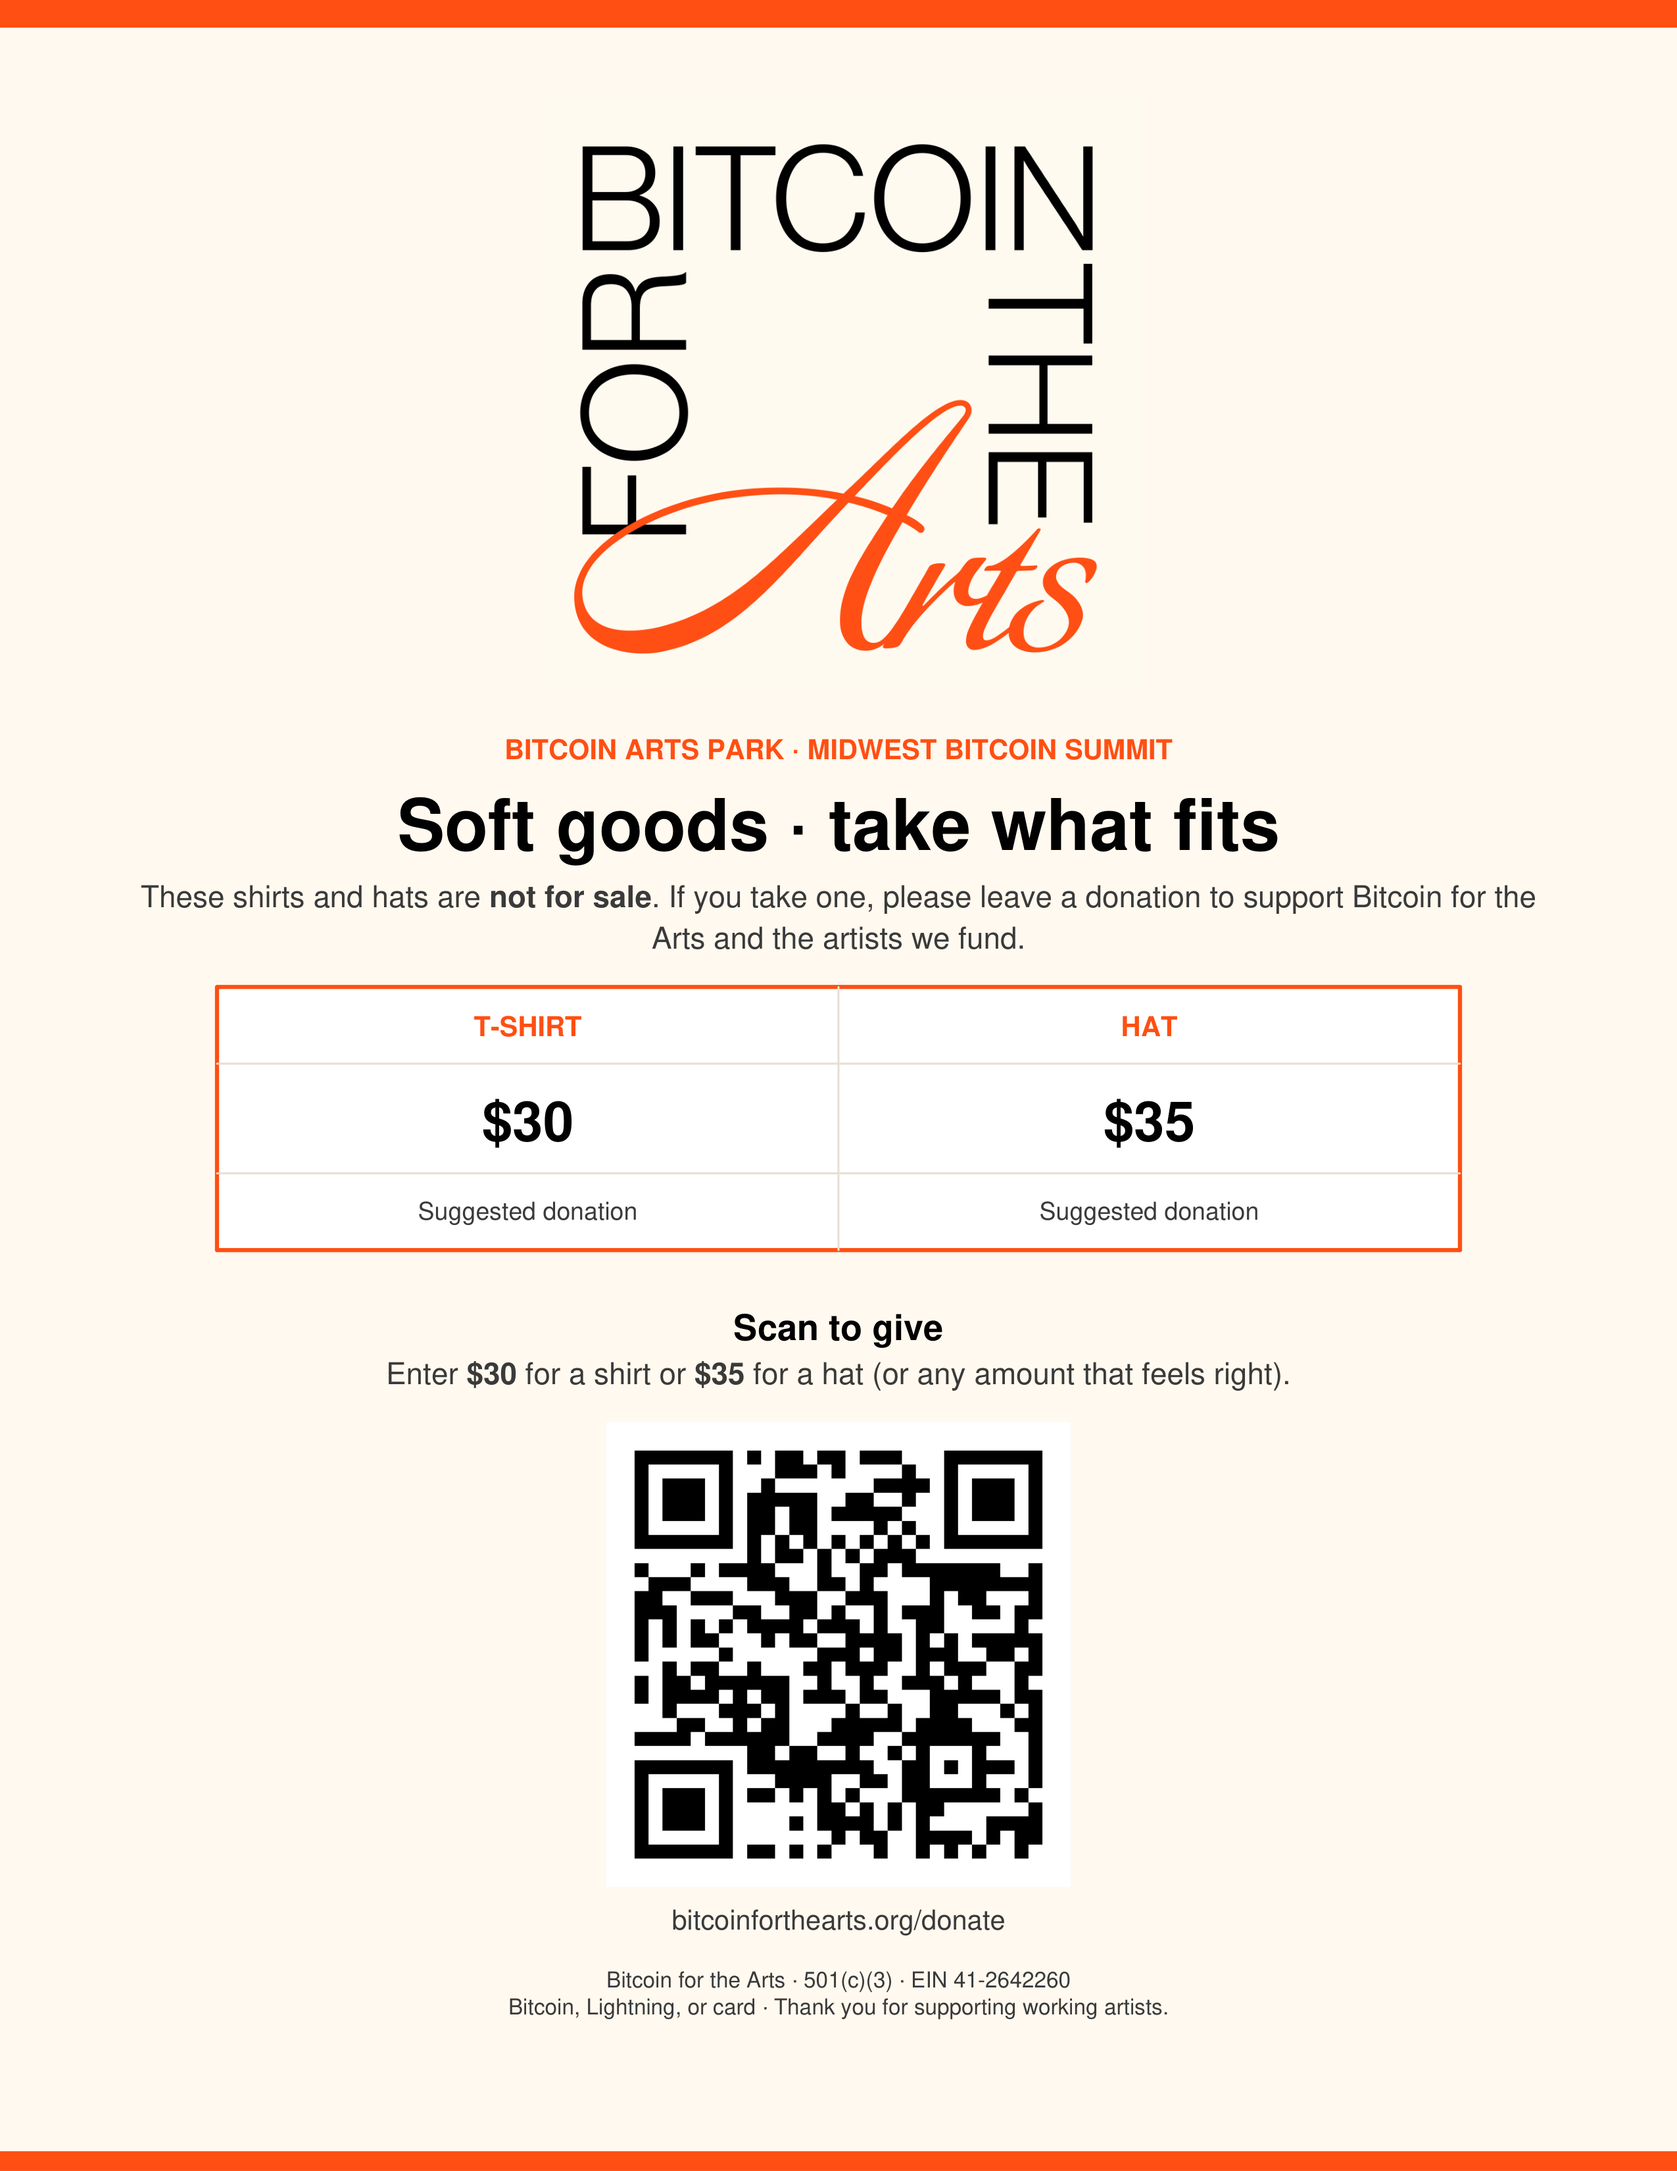
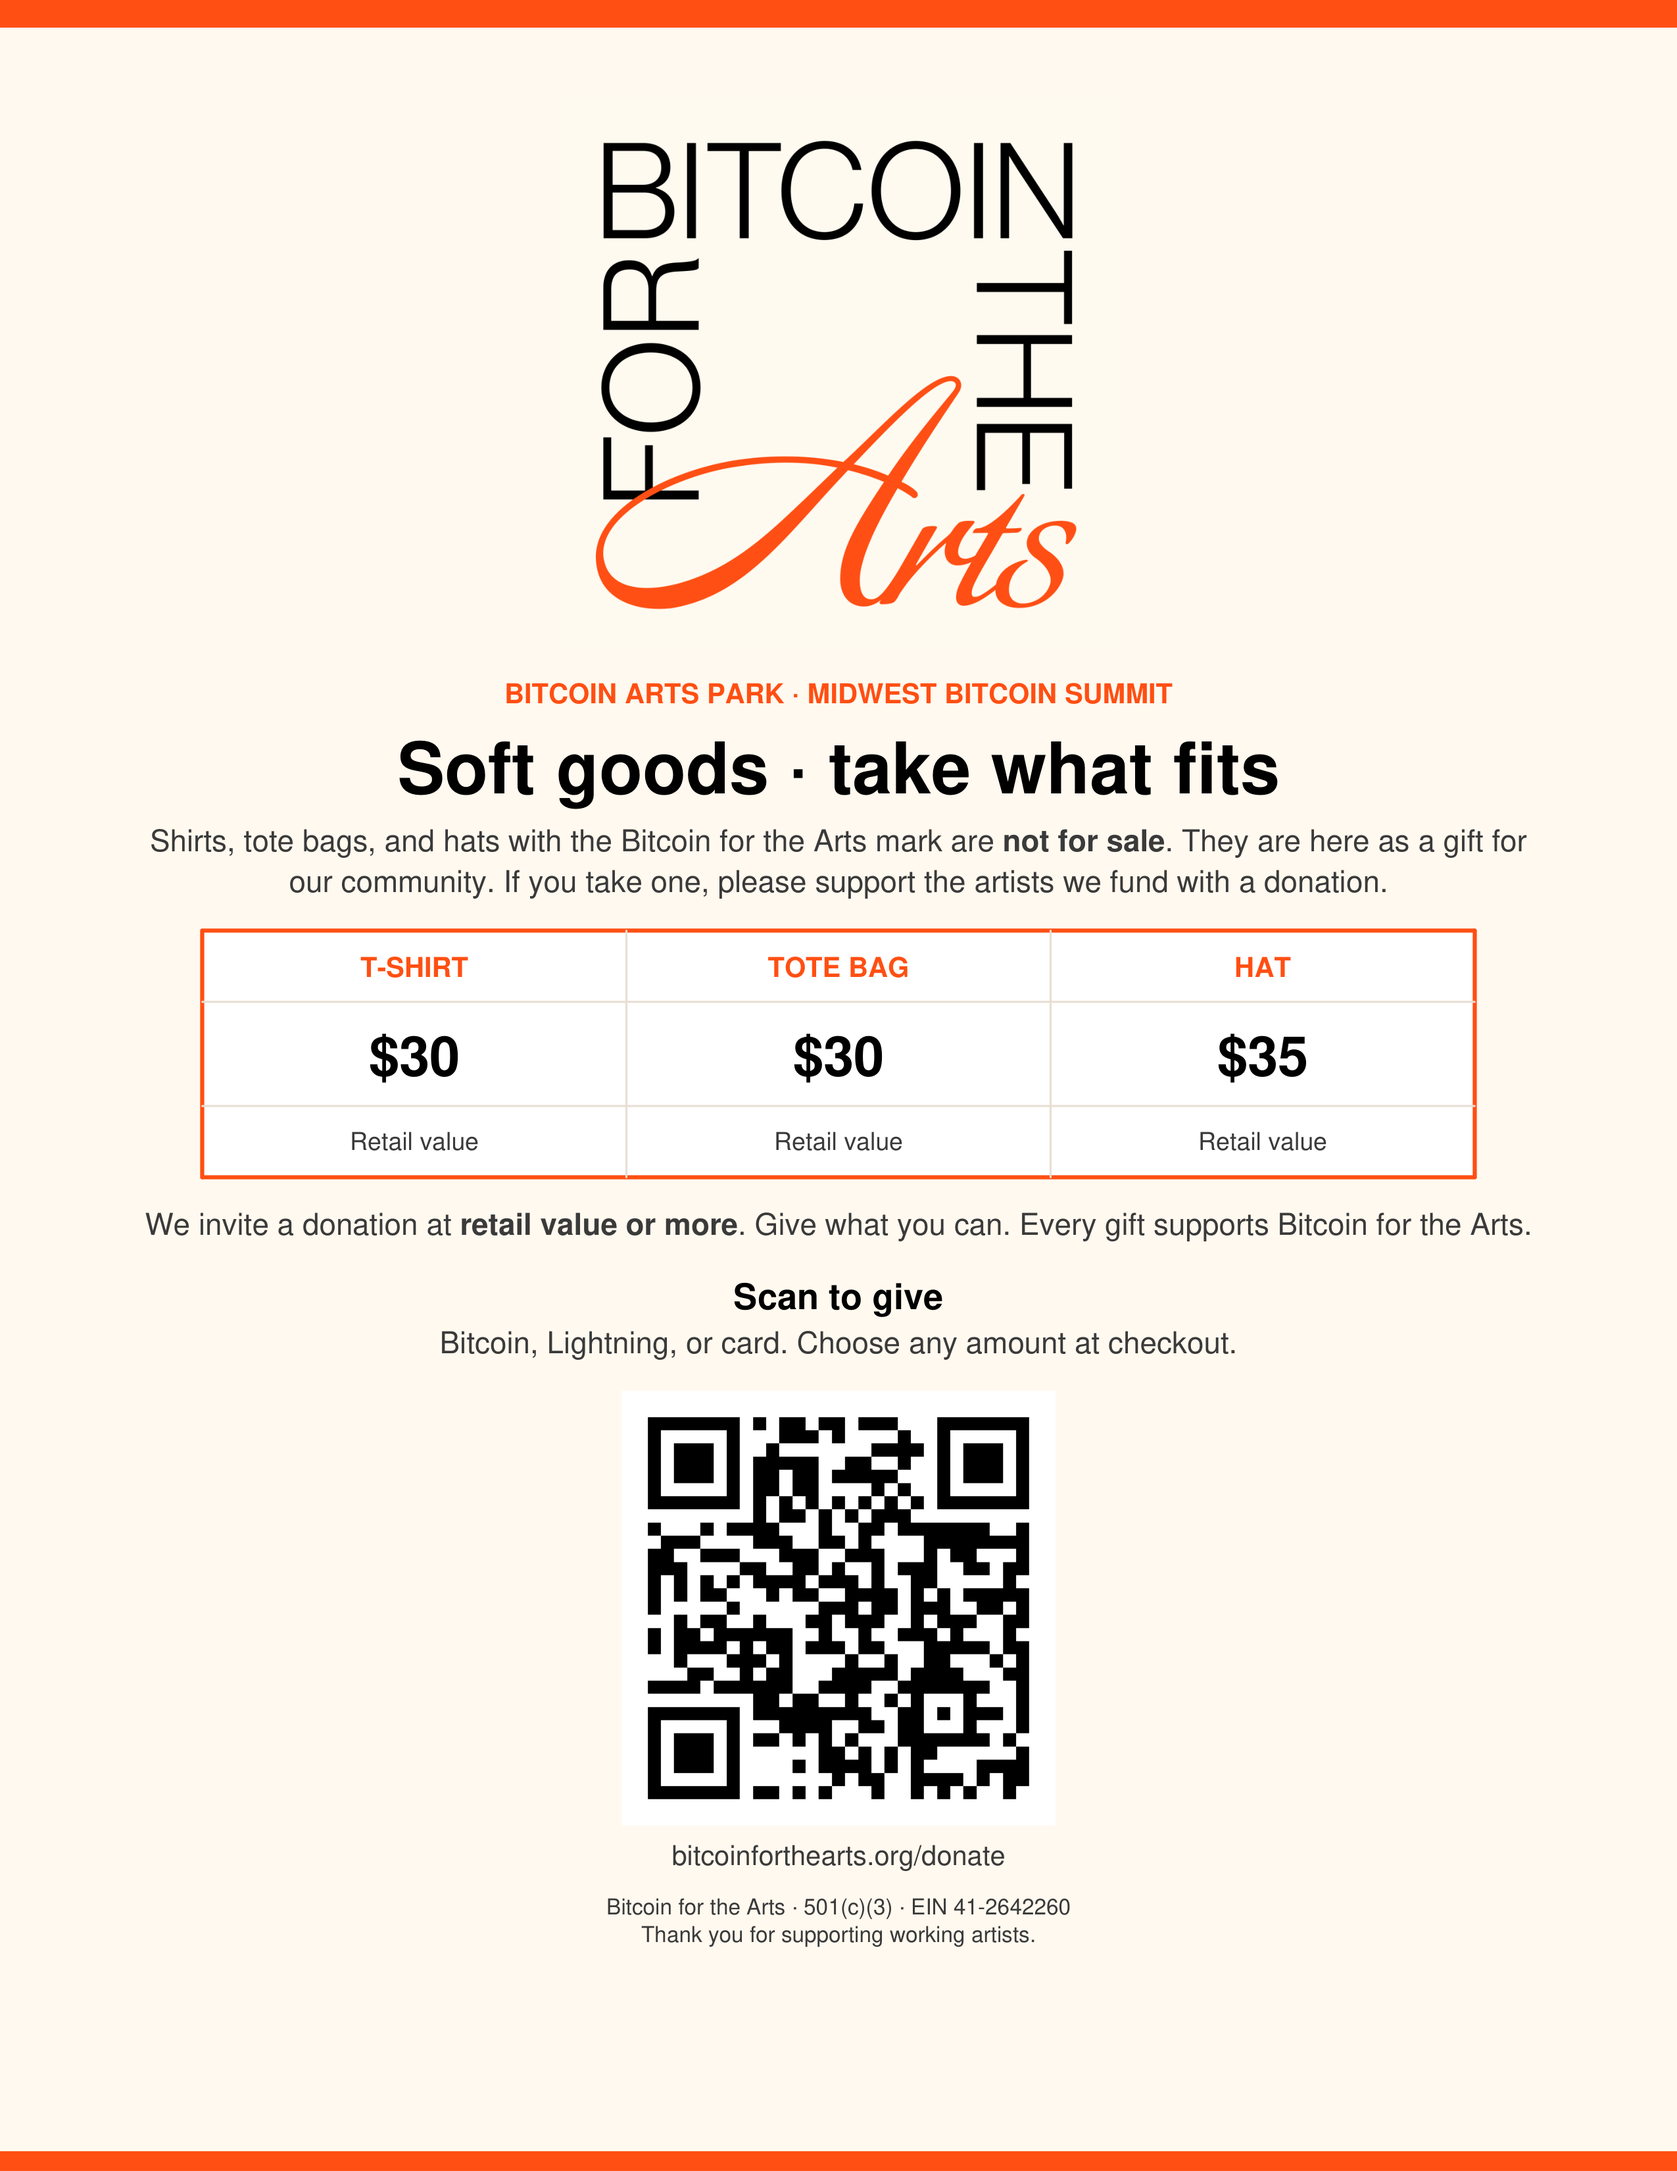
Update merch flyer with tote bags and softer donation copy.
Show retail values for tee, tote, and hat; invite retail-or-more giving without prescribing a checkout amount.

Changed region(s): [[0.0929, 0.0624, 0.8984, 0.9364]]

diff --git a/docs/midwest-2026/merch-flyer/generate-merch-donation-flyer.py b/docs/midwest-2026/merch-flyer/generate-merch-donation-flyer.py
@@ -2,7 +2,8 @@
 """Generate a print-ready wall flyer for Midwest Bitcoin Arts Park soft goods.
 
 Letter size (8.5 × 11 in portrait). Vector PDF + 300 dpi PNG.
-T-shirts and hats are not for sale — suggested donations with QR to give.
+T-shirts, tote bags, and hats are not for sale — retail values shown with
+donation-by-heart guidance and a QR to give.
 """
 
 from __future__ import annotations
@@ -168,21 +169,21 @@ def build_flyer(pdf_path: Path, qr_path: Path) -> None:
         canvas.restoreState()
 
     logo = LOGO if LOGO.exists() else BUG
-    logo_w = 3.1 * inch
+    logo_w = 2.85 * inch
     with PILImage.open(logo) as im:
         aspect = im.size[1] / im.size[0]
     logo_h = logo_w * aspect
 
     story = []
     story.append(Image(str(logo), width=logo_w, height=logo_h, hAlign="CENTER"))
-    story.append(Spacer(1, 0.18 * inch))
+    story.append(Spacer(1, 0.14 * inch))
     story.append(Paragraph("BITCOIN ARTS PARK · MIDWEST BITCOIN SUMMIT", styles["eyebrow"]))
     story.append(Paragraph("Soft goods · take what fits", styles["title"]))
     story.append(
         Paragraph(
-            "These shirts and hats are <b>not for sale</b>. "
-            "If you take one, please leave a donation to support Bitcoin for the Arts "
-            "and the artists we fund.",
+            "Shirts, tote bags, and hats with the Bitcoin for the Arts mark are "
+            "<b>not for sale</b>. They are here as a gift for our community. "
+            "If you take one, please support the artists we fund with a donation.",
             styles["dek"],
         )
     )
@@ -191,18 +192,21 @@ def build_flyer(pdf_path: Path, qr_path: Path) -> None:
         [
             [
                 Paragraph("T-SHIRT", styles["price_label"]),
+                Paragraph("TOTE BAG", styles["price_label"]),
                 Paragraph("HAT", styles["price_label"]),
             ],
             [
                 Paragraph("$30", styles["price_item"]),
+                Paragraph("$30", styles["price_item"]),
                 Paragraph("$35", styles["price_item"]),
             ],
             [
-                Paragraph("Suggested donation", styles["price_sub"]),
-                Paragraph("Suggested donation", styles["price_sub"]),
+                Paragraph("Retail value", styles["price_sub"]),
+                Paragraph("Retail value", styles["price_sub"]),
+                Paragraph("Retail value", styles["price_sub"]),
             ],
         ],
-        colWidths=[3.15 * inch, 3.15 * inch],
+        colWidths=[2.15 * inch, 2.15 * inch, 2.15 * inch],
     )
     price_table.setStyle(
         TableStyle(
@@ -210,34 +214,40 @@ def build_flyer(pdf_path: Path, qr_path: Path) -> None:
                 ("BACKGROUND", (0, 0), (-1, -1), colors.white),
                 ("BOX", (0, 0), (-1, -1), 1.5, ORANGE),
                 ("INNERGRID", (0, 0), (-1, -1), 0.75, colors.HexColor("#E8E0D4")),
-                ("TOPPADDING", (0, 0), (-1, -1), 8),
-                ("BOTTOMPADDING", (0, 0), (-1, -1), 8),
-                ("LEFTPADDING", (0, 0), (-1, -1), 8),
-                ("RIGHTPADDING", (0, 0), (-1, -1), 8),
+                ("TOPPADDING", (0, 0), (-1, -1), 7),
+                ("BOTTOMPADDING", (0, 0), (-1, -1), 7),
+                ("LEFTPADDING", (0, 0), (-1, -1), 4),
+                ("RIGHTPADDING", (0, 0), (-1, -1), 4),
                 ("VALIGN", (0, 0), (-1, -1), "MIDDLE"),
             ]
         )
     )
     story.append(price_table)
-    story.append(Spacer(1, 0.22 * inch))
+    story.append(Spacer(1, 0.14 * inch))
+    story.append(
+        Paragraph(
+            "We invite a donation at <b>retail value or more</b>. "
+            "Give what you can. Every gift supports Bitcoin for the Arts.",
+            styles["dek"],
+        )
+    )
     story.append(Paragraph("Scan to give", styles["scan"]))
     story.append(
         Paragraph(
-            "Enter <b>$30</b> for a shirt or <b>$35</b> for a hat "
-            "(or any amount that feels right).",
+            "Bitcoin, Lightning, or card. Choose any amount at checkout.",
             styles["dek"],
         )
     )
 
-    qr_display = 2.35 * inch
+    qr_display = 2.2 * inch
     story.append(Image(str(qr_path), width=qr_display, height=qr_display, hAlign="CENTER"))
-    story.append(Spacer(1, 0.08 * inch))
+    story.append(Spacer(1, 0.06 * inch))
     story.append(Paragraph(DONATE_DISPLAY, styles["url"]))
-    story.append(Spacer(1, 0.14 * inch))
+    story.append(Spacer(1, 0.1 * inch))
     story.append(
         Paragraph(
             "Bitcoin for the Arts · 501(c)(3) · EIN 41-2642260<br/>"
-            "Bitcoin, Lightning, or card · Thank you for supporting working artists.",
+            "Thank you for supporting working artists.",
             styles["fine"],
         )
     )
@@ -296,7 +306,8 @@ Hand this to the printer with `bfta-merch-donation-flyer.pdf`.
 Do **not** print from a phone screenshot. Use the PDF.
 PNG proof is 2550×3300 px at 300 dpi if the shop insists on raster.
 
-QR opens the open-amount Zaprite checkout so donors can enter $30 (shirt) or $35 (hat).
+QR opens the open-amount Zaprite checkout. The flyer shows retail values and invites
+a donation at retail or more, while leaving the amount to the donor.
 """,
         encoding="utf-8",
     )

diff --git a/docs/midwest-2026/merch-flyer/PRINT-SPECS.md b/docs/midwest-2026/merch-flyer/PRINT-SPECS.md
@@ -14,4 +14,5 @@ Hand this to the printer with `bfta-merch-donation-flyer.pdf`.
 Do **not** print from a phone screenshot. Use the PDF.
 PNG proof is 2550×3300 px at 300 dpi if the shop insists on raster.
 
-QR opens the open-amount Zaprite checkout so donors can enter $30 (shirt) or $35 (hat).
+QR opens the open-amount Zaprite checkout. The flyer shows retail values and invites
+a donation at retail or more, while leaving the amount to the donor.

diff --git a/public/midwest/merch-flyer/PRINT-SPECS.md b/public/midwest/merch-flyer/PRINT-SPECS.md
@@ -14,4 +14,5 @@ Hand this to the printer with `bfta-merch-donation-flyer.pdf`.
 Do **not** print from a phone screenshot. Use the PDF.
 PNG proof is 2550×3300 px at 300 dpi if the shop insists on raster.
 
-QR opens the open-amount Zaprite checkout so donors can enter $30 (shirt) or $35 (hat).
+QR opens the open-amount Zaprite checkout. The flyer shows retail values and invites
+a donation at retail or more, while leaving the amount to the donor.
